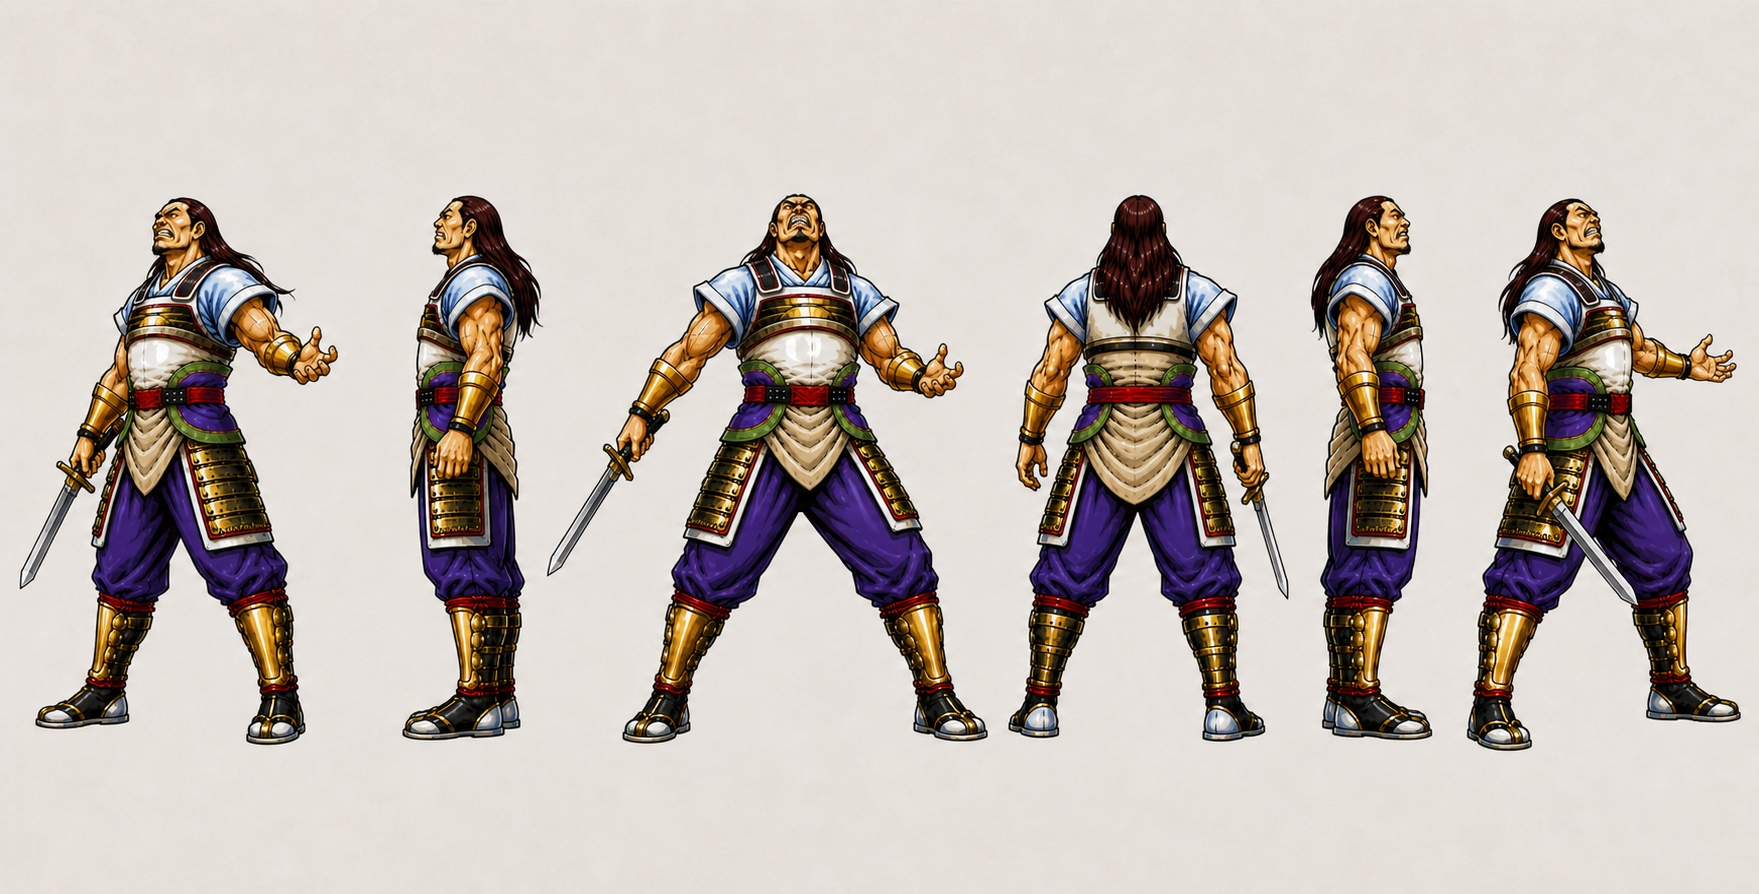
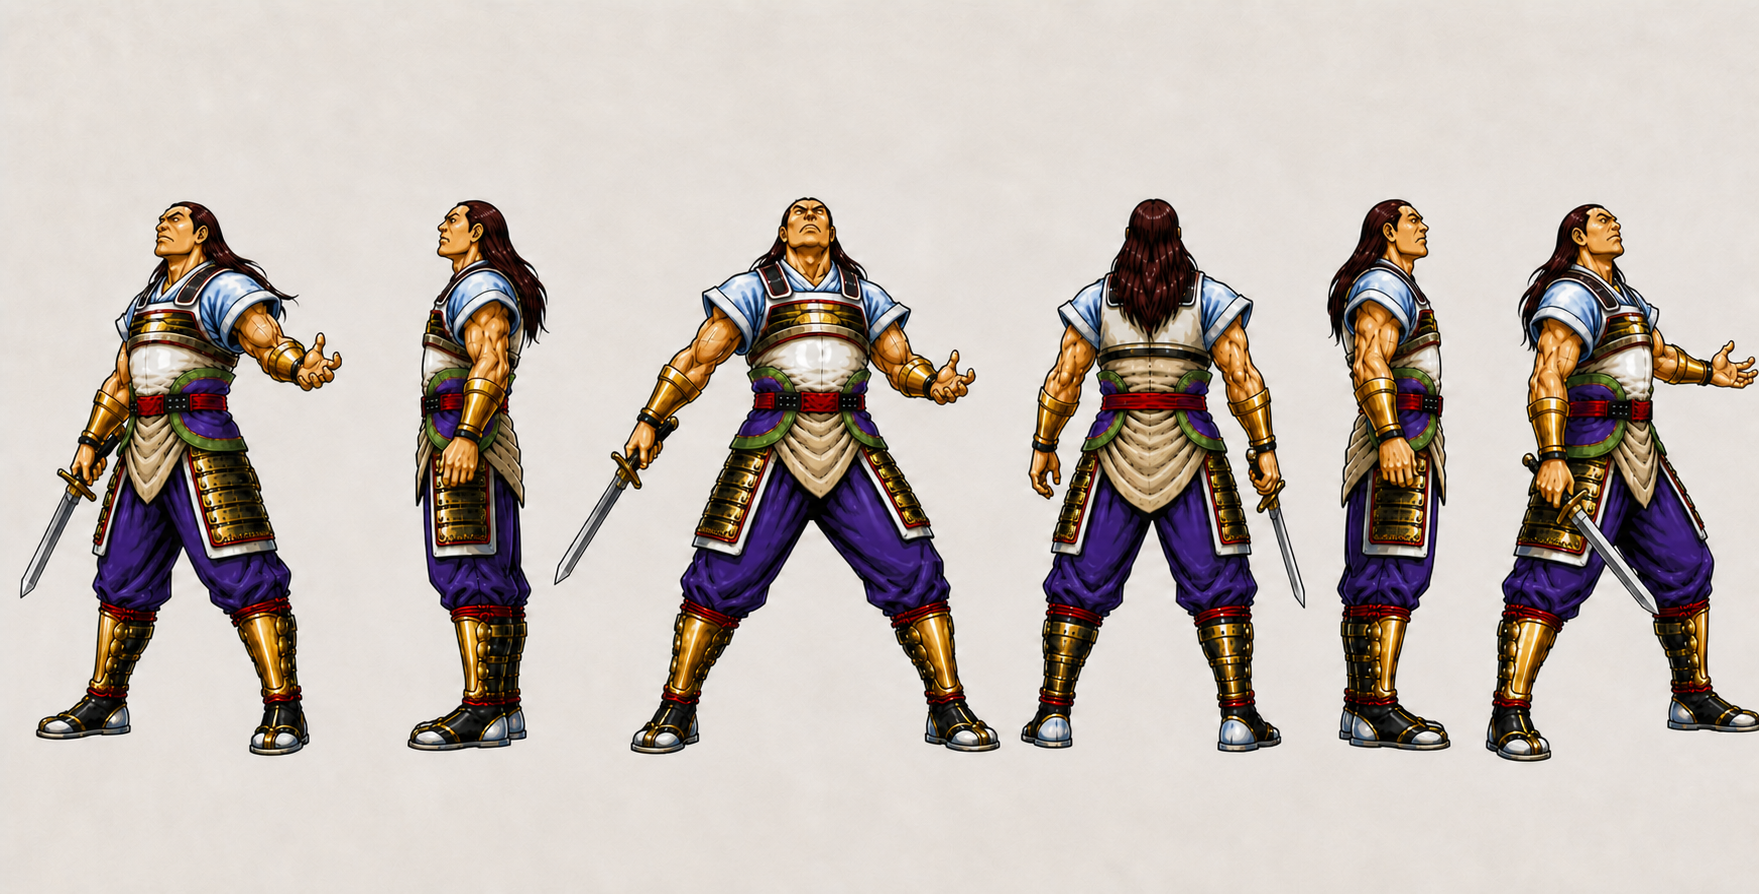
fix(角色设定): 修正 079 无胡须造型
按原画证据将胡须状态改为无胡须，并同步更新中立六视图、原画姿态版、头部四视图及生成提示。\n\n保留返修前图像版本便于追溯。

Changed region(s): [[0.0, 0.2114, 1.0, 0.8758]]

diff --git a/character-model-sheets/characters/079/review-notes.md b/character-model-sheets/characters/079/review-notes.md
@@ -21,6 +21,7 @@
 
 - 人物六视图曾进行定点返修；旧版按递增版本号保留，当前主文件已通过复核。
 - 武器表比例人物身上的箭矢、血迹与伤口已清除，盔甲恢复为干净完整状态。
+- 2026-08-22 用户确认原图没有胡子；规格已改为 `confirmed` 无胡须，中立六视图、原画姿态版和头部四视图均已移除短髭、下巴胡与下颌胡，只保留正常结构墨线和阴影；其他区域保持不变。返修前旧图分别保留为 `character-turnaround-v4.png`、`character-turnaround-original-pose-v1.png` 与 `head-sheet-v1.png`。
 
 ## 证据边界与版本
 
@@ -29,7 +30,7 @@
 ## 2026-08-21 头部四视图补充
 
 - [x] 已生成 `head-sheet.png`，严格按正面、纯后脑、角色自身左侧面、角色自身右侧面排列。
-- [x] 四张保持同一身份、颅骨体积、发型／头戴、胡须、颈部尺度、裁切、光照和固定复古手绘画风。
+- [x] 四张保持同一身份、颅骨体积、发型／头戴、无胡须面部、颈部尺度、裁切、光照和固定复古手绘画风。
 - [x] 纯后脑没有出现面部；左右侧面来自角色不同解剖侧，未用表情变化代替视角变化。
 - [x] 原图未展示的后脑与连接结构继续按规格中的 `inferred`／`unknown` 克制处理，不宣称为原作事实。
 - 状态保持 `generated`，等待用户批准。
